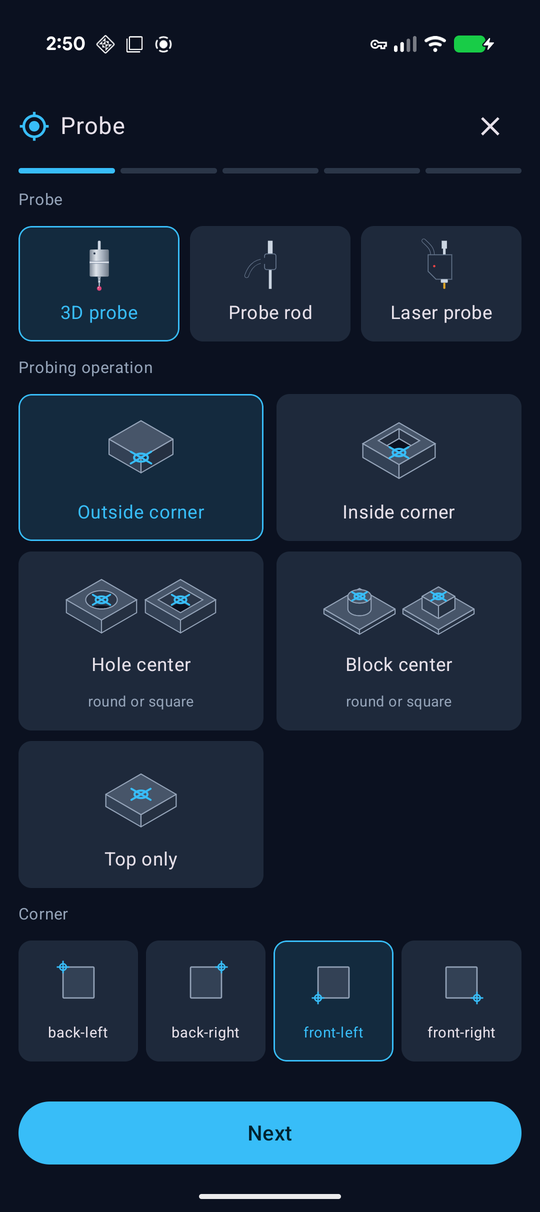
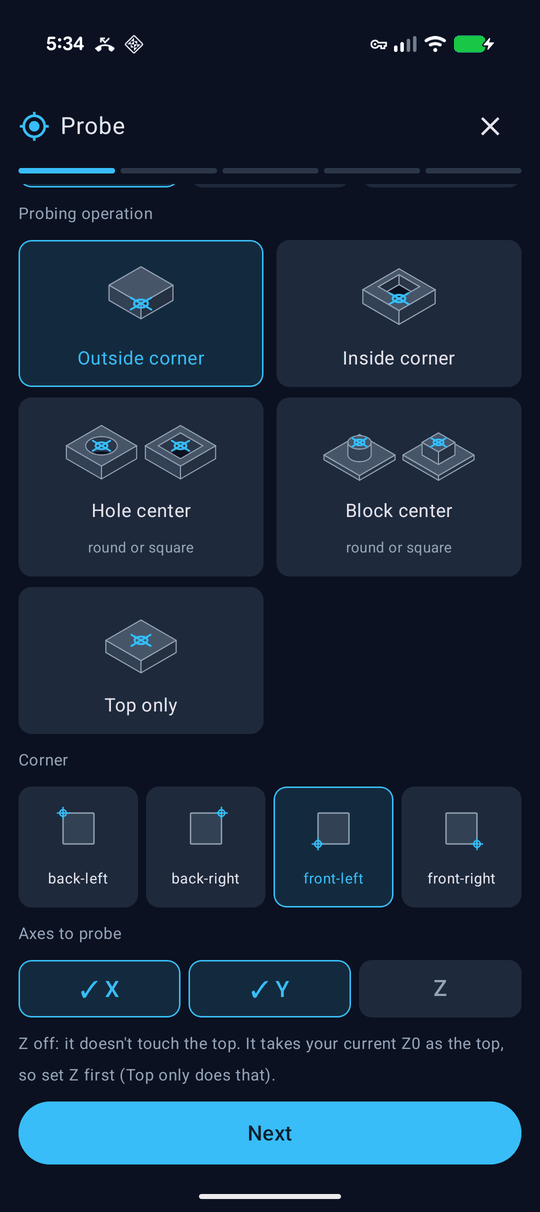
README: screenshots for probing axes, Z off, upload sheet and temperatures

diff --git a/README.md b/README.md
@@ -139,21 +139,34 @@ tap a jog pad, run your own hotkeys, and see live positions, all over Wi-Fi with
   <img src="docs/screenshots/13_probe_position.png" width="160" alt="Move the probe into place">
   <img src="docs/screenshots/14_probe_running.png" width="160" alt="Probing an outside corner">
   <img src="docs/screenshots/15_probe_result.png" width="160" alt="Work zero set">
-  <br><sub>Probing: pick the probe and the operation, check the probe, move it into place, probe, result.</sub>
+  <br><sub>Probing: pick the probe, the operation and the axes, check the probe, move it into place, probe, result.</sub>
 </p>
 
 <p align="center">
-  <img src="docs/screenshots/16_files.png" width="200" alt="Files: the SD card, and a file's sheet with Run">
-  <img src="docs/screenshots/17_run_origin.png" width="200" alt="Run: the origin, with the bed map">
-  <img src="docs/screenshots/18_run_checks.png" width="200" alt="Run: Z probe, margin scan and auto leveling">
-  <img src="docs/screenshots/19_run_summary.png" width="200" alt="Run: time, tools and the precheck routine">
-  <br><sub>Files, then Run: the origin, the checks, and the summary with Start job.</sub>
+  <img src="docs/screenshots/22_probe_z_off_settings.png" width="200" alt="Outside corner with Z off: side depth below Z0">
+  <img src="docs/screenshots/23_probe_z_off_start.png" width="200" alt="Start probing: with Z off it goes down from the Z origin">
+  <br><sub>A corner with Z off: the side depth counts from your Z0, and Start says so.</sub>
+</p>
+
+<p align="center">
+  <img src="docs/screenshots/16_files.png" width="160" alt="Files: the SD card, and a file's sheet with Run">
+  <img src="docs/screenshots/26_upload.png" width="160" alt="Upload to the Z1: choose a file, or Cancel">
+  <img src="docs/screenshots/17_run_origin.png" width="160" alt="Run: the origin, with the bed map">
+  <img src="docs/screenshots/18_run_checks.png" width="160" alt="Run: Z probe, margin scan and auto leveling">
+  <img src="docs/screenshots/19_run_summary.png" width="160" alt="Run: time, tools and the precheck routine">
+  <br><sub>Files and the upload sheet, then Run: the origin, the checks, and the summary with Start job.</sub>
 </p>
 
 <p align="center">
   <img src="docs/screenshots/20_job_details.png" width="240" alt="A job running: progress, time left, tools, Cancel job">
   <img src="docs/screenshots/21_alarm.png" width="240" alt="The alarm sheet with Clear alarm">
   <br><sub>A job running (with Cancel job), and the alarm sheet.</sub>
+</p>
+
+<p align="center">
+  <img src="docs/screenshots/24_job_temps.png" width="240" alt="A job running: spindle 74 °C, one degree under the limit, with the temperature graph and tool marks">
+  <img src="docs/screenshots/25_overheat.png" width="240" alt="Spindle overheated: the graph with the halt and the cooling since, and Clear alarm">
+  <br><sub>Temperatures: close to the limit during a job, and the overheat sheet after the Z1 stopped it.</sub>
 </p>
 
 <p align="center">
